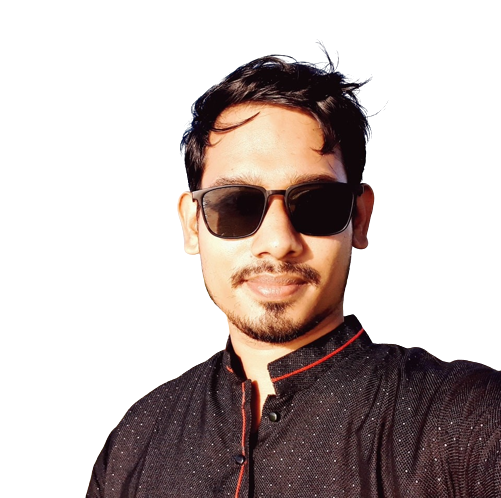
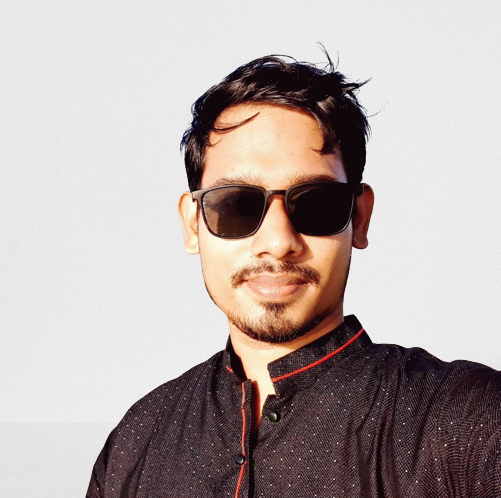
added css animation

diff --git a/src/Components/Home/Banner.jsx b/src/Components/Home/Banner.jsx
@@ -2,9 +2,10 @@ import React from 'react';
 import { Link } from 'react-router-dom';
 import { Slide } from "react-awesome-reveal";
 import { FaArrowDown, FaFacebookF, FaGithub, FaLinkedin, FaTwitter } from 'react-icons/fa';
-import frame from '../../assets/imgIcon.png'
+//import frame from '../../assets/imgIcon.png'
 import samad from '../../assets/samad.png'
 import { Typewriter } from 'react-simple-typewriter'
+import './Banner.css';
 
 
 
@@ -27,9 +28,10 @@ const Banner = () => {
 
 
     return (
-        <div className='bannerPic lg:h-[100vh]'>
-            <Slide>
+        <div className='bannerPic lg:h-[100vh] relative'>
+            <Slide cascade>
                 <div className='md:flex items-center justify-between space-x-5 pt-14 md:px-24'>
+
                     <div className='md:w-1/2 md:ml-10 p-4'>
                         <div>
                             <h1 className='text-2xl  font-semibold'>ABDUS SAMAD SAIFUL</h1>
@@ -40,7 +42,7 @@ const Banner = () => {
                                 <span style={{ color: 'green', fontWeight: 'bold' }}>
                                     {/* Style will be inherited from the parent element */}
                                     <Typewriter
-                                        words={['Web developer','React developer', 'MERN stack developer']}
+                                        words={['Web developer', 'React developer', 'MERN stack developer']}
                                         loop={5}
                                         cursor
                                         cursorStyle='>'
@@ -89,10 +91,18 @@ const Banner = () => {
                             </Link>
                         </div>
                     </div>
-                    <div className=''>
-                        <div className='relative'>
+
+                    {/* <div className=''>
+                        <div className='relative' data-aos="fade-right" data-aos-duration="3000">
                             <img className='w-72 h-72 hidden lg:block' src={frame} alt="icon" />
                             <img className='w-64 h-64 md:absolute right-14 md:right-4 rounded-full bottom-8' src={samad} alt="icon" />
+                        </div>
+                    </div> */}
+                    <div className='box'>
+                        <div className='bg-pic bg-black'>
+                            <img src={samad} alt="" />
+                            <h4 className=' text-white font-bold'>A Samad Saiful <br /> <span>Web Developer</span> </h4>
+                            <Link to='/contact'> <a className='text-white bg-cyan-800 hover:shadow-md hover:shadow-yellow-600'>Hire Me</a></Link>
                         </div>
                     </div>
                 </div>

diff --git a/src/Components/Home/Banner.css b/src/Components/Home/Banner.css
@@ -1,0 +1,91 @@
+.box{
+    position: relative;
+    width: 300px;
+    height: 300px;
+    background: #ffff;
+    border-radius: 50%;
+    overflow: hidden;
+}
+
+.box::before{
+    content:'';
+    position: absolute;
+    inset: -10px 110px;
+    background: linear-gradient(315deg, #00ccff, #d400d4);
+    transition: 0.5s;
+    animation: animate 4s linear infinite;
+}
+.box:hover::before{
+    inset: -50px 0px;
+
+}
+
+@keyframes animate{
+    0%
+    {
+        transform: rotate(0deg);
+        
+    }
+    100%
+    {
+        transform: rotate(360deg);
+
+    }
+}
+
+.box::after{
+    content: '';
+    position: absolute;
+    inset: 10px;
+    background: #ffff ;
+    border-radius: 50%;
+    z-index: 1;
+}
+.bg-pic{
+    position: absolute;
+    inset: 8px;
+    border: 6px solid #ffff;
+    z-index: 3;
+    border-radius: 50%;
+   overflow: hidden;
+   display: flex;
+   justify-content: center;
+   align-items: center;
+   flex-direction: column;
+}
+
+.bg-pic img{
+    position: absolute;
+    top: 0;
+    left: 0;
+    width: 100%;
+    height: 100%;
+    object-fit:cover;
+    transition: 0.5s;
+    pointer-events: none;
+    z-index: 3;
+}
+.box:hover .bg-pic img{
+    opacity: 0;
+}
+
+.bg-pic h4{
+    position:relative;
+    font-size: 1.5em;
+    text-align: center;
+    text-transform: uppercase;
+}
+.bg-pic h4 span{
+    font-size: 0.75em;
+}
+.bg-pic a{
+    position: relative;
+    margin-top: 10px;
+    padding: 10px 20px;
+    text-transform: uppercase;
+    letter-spacing: 0.05em;
+}
+
+.bg-pic a:hover{
+    letter-spacing: 0.1em;
+}

diff --git a/src/Components/Home/Course/BannerCard.jsx b/src/Components/Home/Course/BannerCard.jsx
@@ -7,9 +7,9 @@ import pic3 from '../../../assets/skill_icon/wsda.jpg'
 const BannerCard = () => {
     return (
         <div className='dark:bg-cyan-900 pb-24 pt-10'>
-            <h1 className='text-center text-2xl font-bold mb-5'>Courses</h1>
+            <h1 className='text-center text-2xl font-bold mb-5'>Courses_</h1>
             <div className=' md:px-14 grid md:grid-cols-3 gap-4 md:h-[200px]'>
-                <div className='BCard mt-5 mx-auto'>
+                <div className='BCard mt-5 mx-auto' >
                     <div className='imgBox'>
                         <img src={pic1} alt="pic" />
                         <h1 className='text-lg  text-center font-bold'>Web Development Course</h1>
